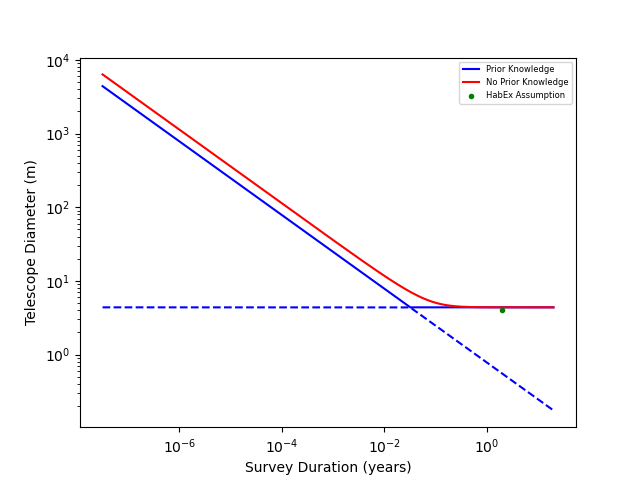
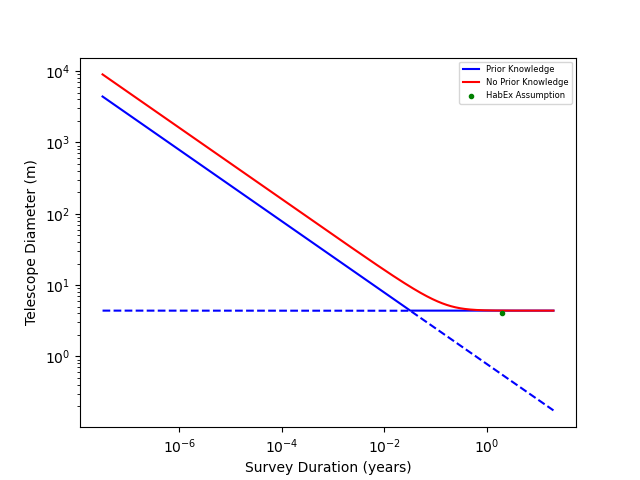
Fixed a bunch of stuff, added iwa and eps graphs

diff --git a/dgraphs.py b/dgraphs.py
@@ -25,15 +25,17 @@ Generate a graph that compares two variables for a given mission concept.
 
   STUDY          one of [habex, luvoir, luvoiralt]
   COMPARISON     integer, [0..3] such that: (x vs y)
-                          0 -> N_oplus   vs d
-                          1 -> eta_oplus vs d
-                          2 -> d         vs N_oplus
-                          3 -> duration  vs d
-                          4 -> eta_oplus vs N_oplus
-                          5 -> IWA       vs N_oplus
-                          6 -> N_oplus   vs SNR0
-                          7 -> N_oplus   vs duration
-                          8 -> eta_oplus vs duration
+                          0  -> N_oplus    vs d
+                          1  -> eta_oplus  vs d
+                          2  -> d          vs N_oplus
+                          3  -> duration   vs d
+                          4  -> eta_oplus  vs N_oplus
+                          5  -> IWA        vs N_oplus
+                          6  -> N_oplus    vs SNR0
+                          7  -> N_oplus    vs duration
+                          8  -> eta_oplus  vs duration
+                          9  -> efficiency vs N_oplus
+                          10 -> iwafactor  vs N_oplus
   GRAPHTYPE      one of [linear, logy, logx, loglog]
 
 If an invalid value is supplied for STUDY, it will
@@ -73,7 +75,7 @@ if len(sys.argv) > 1:
         exit(1)
 
 
-NOPLUSvD, ETAvD, DvNOPLUS, DvTIME, ETAvNOPLUS, IWAvNOPLUS, SNR0vNOPLUS, NOPLUSvT, ETAvT = [False]*9
+NOPLUSvD, ETAvD, DvNOPLUS, DvTIME, ETAvNOPLUS, IWAvNOPLUS, SNR0vNOPLUS, NOPLUSvT, ETAvT, IWAFACvNOPLUS, EPSvNOPLUS = [False]*11
 if len(sys.argv) > 2:
     if '0' == sys.argv[2]:
         NOPLUSvD=True
@@ -93,6 +95,10 @@ if len(sys.argv) > 2:
         NOPLUSvT = True
     elif '8' == sys.argv[2]:
         ETAvT = True
+    elif '9' == sys.argv[2]:
+        EPSvNOPLUS=True
+    elif '10' == sys.argv[2]:
+        IWAFACvNOPLUS=True
     else:
         print_help()
         #exit(1)
@@ -181,14 +187,14 @@ def d_photon_noprior(Noplusa, la, avara, rhostara, etaeartha, snr0a, Ra, Ka, eps
     n = d(m(iwafaca, la), avara)
     cuberoot = np.cbrt(d(m(3, Noplusa), m(4*pi, m(rhostara, etaeartha))))
     is_low = m(5, m(Ra, m(Ka, m(epsa, m(np.power(n, 2), m(Ta, etaeartha))))))
-    is_high = m(48, m(m(rvala,np.power(snr0a, 2)), Noplusa))
+    is_high = m(96, m(m(rvala,np.power(snr0a, 2)), Noplusa))
     innersqrt = np.sqrt(a(1, np.power(d(is_high, is_low), 2)))
     outersqrt = np.sqrt(a(1, innersqrt))
     return m(d(n, np.sqrt(2)), m(cuberoot, outersqrt))
 
 # Eq Label: "eq:iwaApprox"
 def iwa_photon_noprior(Noplusa, la, avara, rhostara, etaeartha, snr0a, Ra, Ka, epsa, Ta, iwafaca, rvala):
-    return d(m(3,la),d_photon_noprior(Noplusa, la, avara, rhostara, etaeartha, snr0a, Ra, Ka, epsa, Ta, iwafaca, rvala))
+    return d(m(iwafaca,la),d_photon_noprior(Noplusa, la, avara, rhostara, etaeartha, snr0a, Ra, Ka, epsa, Ta, iwafaca, rvala))
 
 # Eq Label: "eq:dphotonnoise"
 def d_photon_prior(Noplusa, la, avara, rhostara, etaeartha, snr0a, Ra, Ka, epsa, Ta, iwafaca, rvala):
@@ -217,9 +223,9 @@ def d_prior_noplus(Noplusarr, la, avara, rhostara, etaeartha, snr0a, Ra, Ka, eps
     photonlim2 = d_photon_prior(Noplusarr[:intersect_ind], la, avara, rhostara, etaeartha, snr0a, Ra, Ka, epsa, Ta, iwafaca, rvala)
     return np.concatenate((iwalim, photonlim)), np.concatenate((photonlim2, iwalim2))
 
-# Trivial rearrangement of Eq Label : "eq:iwaphotonint_noplus"
+# Trivial rearrangement of Eq Label : "eq:iwaphotonint_noplus" TODO: check if this needs an extra iwafac
 def T_intersection_prior(Noplusa, la, avara, rhostara, etaeartha, snr0a, Ra, Ka, epsa, Ta, iwafaca, rvala):
-    return d(m(Noplusa,m(m(16/5, rvala), np.power(m(snr0a, avara), 2))), m(m(iwafaca, np.power(la, 2)), m(m(Ra, Ka), epsa)))
+    return d(m(Noplusa,m(m(48/5, rvala), np.power(m(snr0a, avara), 2))), m(np.power(m(iwafaca, la), 2), m(m(Ra, Ka), epsa)))
 
 # No eq label, just a combo of below.
 def d_prior_T(Noplusa, la, avara, rhostara, etaeartha, snr0a, Ra, Ka, epsa, Tarr, iwafaca, rvala):
@@ -235,7 +241,7 @@ def d_prior_T(Noplusa, la, avara, rhostara, etaeartha, snr0a, Ra, Ka, epsa, Tarr
 def T_photon_noprior(Noplusa, la, avara, rhostara, etaeartha, snr0a, Ra, Ka, epsa, da, iwafaca, rvala):
     mvar = d(m(16,m(rvala,m(snr0a,snr0a))),m(Ra,m(Ka,epsa)))
     mvar = m(mvar,np.power(d(3,m(4*pi,rhostara)),2/3))
-    nvar = d(m(3,la),avara)
+    nvar = d(m(iwafaca,la),avara)
     sigvar = m(3/5,np.power(d(Noplusa,etaeartha),5/3))
     Dlim = np.cbrt(d(m(3,Noplusa),m(4*pi,m(rhostara, etaeartha))))
     #return d(m(mvar,sigvar),m(m(da,da),np.sqrt(np.abs(s(1,np.power(d(m(Dlim,nvar),da),2))))))
@@ -265,7 +271,7 @@ def get_etaearth_sca(Noplusa, la, avara, rhostara, etaeartha, snr0a, Ra, Ka, eps
 # Eq Label: "eq:SNR0noprior_iwa"
 def SNR_photon_noprior(Noplusa, la, avara, rhostara, etaeartha, da, Ra, Ka, epsa, Ta, iwafaca, rvala):
     Dlim = np.cbrt(d(m(3,Noplusa),m(4*pi,m(rhostara, etaeartha))))
-    innersqrt=np.sqrt(s(1,np.power(d(m(3,m(Dlim,la)),m(da,avara)),2)))
+    innersqrt=np.sqrt(s(1,np.power(d(m(iwafaca,m(Dlim,la)),m(da,avara)),2)))
     top=m(m(m(5/48,Ra),m(Ka,Ta)),m(m(epsa,innersqrt),m(np.power(etaeartha,5/3),np.power(da,2))))
     bottom=m(rvala,np.power(Noplusa,5/3))
     outersqrt=np.sqrt(d(top,bottom))
@@ -290,9 +296,9 @@ def get_real_pos_root(coeff0a,coeff2a,coeff10a):
 # Eq Label: "eq:Nstarpolynomial"
 def Noplus_photon_noprior(da, la, avara, rhostara, etaeartha, snr0a, Ra, Ka, epsa, Ta, iwafaca, rvala):
     mvar=m(d(m(m(16,rvala),m(snr0a,snr0a)),m(Ra,m(Ka,epsa))),np.power(d(3,m(4*pi,rhostara)),2/3))
-    nvar=d(m(3,la),avara)
+    nvar=d(m(iwafaca,la),avara)
     alphsq=np.power(d(m(m(5,Ta),m(da,da)),m(3,mvar)),2)
-    beta=np.power(d(nvar,da),2)
+    beta=m(np.power(d(nvar,da),2),np.power(d(3,m(4*pi,rhostara)),2/3))
     coeff0=-alphsq
     coeff2=m(alphsq,beta)
     coeff10=1
@@ -311,7 +317,7 @@ def Noplus_photon_noprior(da, la, avara, rhostara, etaeartha, snr0a, Ra, Ka, eps
             c2=coeff2[i]
             c10=coeff10
             #Now cube, and multiply by etaearth
-            np.append(results,get_real_pos_root(c0,c2,c10))
+            results=np.append(results,get_real_pos_root(c0,c2,c10))
     except TypeError:
         results=get_real_pos_root(coeff0,coeff2,coeff10)
     return m(np.power(results,3),etaeartha)
@@ -322,8 +328,21 @@ def Noplus_photon_prior(da, la, avara, rhostara, etaeartha, snr0a, Ra, Ka, epsa,
     squarestop = np.power(m(m(pi,np.power(da,3)),m(rhostara,etaeartha)),2)
     bottom=np.power(m(rvala,m(snr0a,snr0a)),3)
     fraction=m(125/62208,d(m(cubestop,squarestop),bottom))
-    return np.power(fraction,1/5)
+    try:
+        len(fraction)
+        return np.power(fraction,1/5)
+    except:
+        return [np.power(fraction,1/5) for i in m(m(la,avara),iwafaca)]
 
+def Noplus_iwa_prior(da, la, avara, rhostara, etaeartha, snr0a, Ra, Ka, epsa, Ta, iwafaca, rvala):
+    cubes = np.power(d(m(avara,da),la),3)
+    linear = m(4*pi/81, m(rhostara, etaeartha))
+    res = m(linear, cubes)
+    try:
+        len(res)
+        return res
+    except:
+        return [res for i in m(m(m(snr0a, Ra), m(Ka, epsa)),m(Ta,m(iwafaca,rvala)))]
 
 # Now we get to actually graph all these things.
 
@@ -447,11 +466,12 @@ if DvTIME:
     tintersect = T_intersection_prior(Noplus, l, avar, rhostar, etaearth, snr0, R, K, eps, [], iwafac, rval)
     timevals = list(np.linspace(0.1*tintersect, 10*T, 10000))
     tval2 = np.linspace(1, 2*tintersect, 1000)
+    tval3 = np.linspace(1, 100000,100000)
     timevals.append(T)
     timevals.append(tintersect)
     timevals.sort()
     timevals = np.array(timevals)
-    timevals = np.concatenate([timevals, tval2])
+    timevals = np.concatenate([timevals, tval2, tval3])
     timevals = np.sort(timevals)
     timevalsy = d(timevals, 3600*24*365)
     titlestr = ' Telescope Diameter vs. Survey Duration, for $\eta_\oplus='+str(float(etaearth))+'$.'
@@ -610,8 +630,9 @@ if ETAvNOPLUS:
     titlestr = ' $\eta_\oplus$ vs $N_\oplus$'
     etavals = np.linspace(0,1,10000)[1:9999]
     nvals_np=Noplus_photon_noprior(dvar, l, avar, rhostar, etavals, snr0, R, K, eps, T, iwafac, rval)
-    nvals_p=Noplus_photon_prior(dvar, l, avar, rhostar, etavals, snr0, R, K, eps, T, iwafac, rval)
-    
+    nvals_pp=Noplus_photon_prior(dvar, l, avar, rhostar, etavals, snr0, R, K, eps, T, iwafac, rval)
+    nvals_ip=Noplus_iwa_prior(dvar, l, avar, rhostar, etavals, snr0, R, K, eps, T, iwafac, rval)
+    nvals_p = [min(nvals_pp[i], nvals_ip[i]) for i in range(len(nvals_ip))]
     ax = plt.figure()
     plt.xlim([0,1])
     if LINEAR or UNSET:
@@ -630,6 +651,59 @@ if ETAvNOPLUS:
     
     plt.plot(etaearth,Noplus, 'go', label=HABEX*'HabEx' + (LUVOIR or LUVOIRALT)*'LUVOIR'+' Assumption', markersize=3)
     plt.ylabel('Survey Yield'); plt.xlabel('$\eta_\oplus$')
+    plt.title(TITLES*(HABEX*'HabEx' + (LUVOIR or LUVOIRALT)*'LUVOIR' + titlestr))
+    plt.legend(prop={'size':6}); plt.show()
+if EPSvNOPLUS:
+    titlestr=' Survey Efficiency vs $N_\oplus$'
+    epsvals=np.linspace(0,1,10000)[1:9999]
+    nvals_np=Noplus_photon_noprior(dvar, l, avar, rhostar, etaearth, snr0, R, K, epsvals, T, iwafac, rval)
+    nvals_pp=Noplus_photon_prior(dvar, l, avar, rhostar, etaearth, snr0, R, K, epsvals, T, iwafac, rval)
+    nvals_ip=Noplus_iwa_prior(dvar, l, avar, rhostar, etaearth, snr0, R, K, epsvals, T, iwafac, rval)
+    nvals_p = [min(nvals_pp[i], nvals_ip[i]) for i in range(len(nvals_ip))]
+    if LINEAR or UNSET:
+        plt.plot(epsvals,nvals_p, color='b', label='Prior Knowledge')
+        plt.plot(epsvals, nvals_np, color='r', label='No Prior Knowledge')
+        plt.gca().set_ylim(bottom=0)
+        plt.xlim([0,1])
+    elif LOGY:
+        plt.semilogy(epsvals,nvals_p, color='b', label='Prior Knowledge')
+        plt.semilogy(epsvals, nvals_np, color='r', label='No Prior Knowledge')
+    elif LOGX:
+        plt.semilogx(epsvals,nvals_p, color='b', label='Prior Knowledge')
+        plt.semilogx(epsvals, nvals_np, color='r', label='No Prior Knowledge')
+    elif LOGLOG:
+        plt.loglog(epsvals,nvals_p, color='b', label='Prior Knowledge')
+        plt.loglog(epsvals, nvals_np, color='r', label='No Prior Knowledge')
+    
+    plt.plot(eps, Noplus, 'go', label='Assumption', markersize=3)
+    plt.ylabel('Survey Yield'); plt.xlabel('Survey Efficiency')
+    plt.title(TITLES*(HABEX*'HabEx' + (LUVOIR or LUVOIRALT)*'LUVOIR' + titlestr))
+    plt.legend(prop={'size':6}); plt.show()
+
+if IWAFACvNOPLUS:
+    titlestr = ' IWA ($\lambda$/d) vs $N_\oplus$'
+    iwavals = np.linspace(1,6,10000)
+    nvals_np=Noplus_photon_noprior(dvar, l, avar, rhostar, etaearth, snr0, R, K, eps, T, iwavals, rval)
+    nvals_pp=Noplus_photon_prior(dvar, l, avar, rhostar, etaearth, snr0, R, K, eps, T, iwavals, rval)
+    nvals_ip=Noplus_iwa_prior(dvar, l, avar, rhostar, etaearth, snr0, R, K, eps, T, iwavals, rval)
+    nvals_p = [min(nvals_pp[i], nvals_ip[i]) for i in range(len(nvals_ip))]
+    ax = plt.figure()
+    if LINEAR or UNSET:
+        plt.plot(iwavals,nvals_p, color='b', label='Prior Knowledge')
+        plt.plot(iwavals, nvals_np, color='r', label='No Prior Knowledge')
+        plt.gca().set_ylim(bottom=0)
+    elif LOGY:
+        plt.semilogy(iwavals,nvals_p, color='b', label='Prior Knowledge')
+        plt.semilogy(iwavals, nvals_np, color='r', label='No Prior Knowledge')
+    elif LOGX:
+        plt.semilogx(iwavals,nvals_p, color='b', label='Prior Knowledge')
+        plt.semilogx(iwavals, nvals_np, color='r', label='No Prior Knowledge')
+    elif LOGLOG:
+        plt.loglog(iwavals,nvals_p, color='b', label='Prior Knowledge')
+        plt.loglog(iwavals, nvals_np, color='r', label='No Prior Knowledge')
+    
+    plt.plot(iwafac, Noplus, 'go', label=HABEX*'HabEx' + (LUVOIR or LUVOIRALT)*'LUVOIR'+' Assumption', markersize=3)
+    plt.ylabel('Survey Yield'); plt.xlabel('IWA ($\lambda$/d)')
     plt.title(TITLES*(HABEX*'HabEx' + (LUVOIR or LUVOIRALT)*'LUVOIR' + titlestr))
     plt.legend(prop={'size':6}); plt.show()
 # Sources: HabEx
